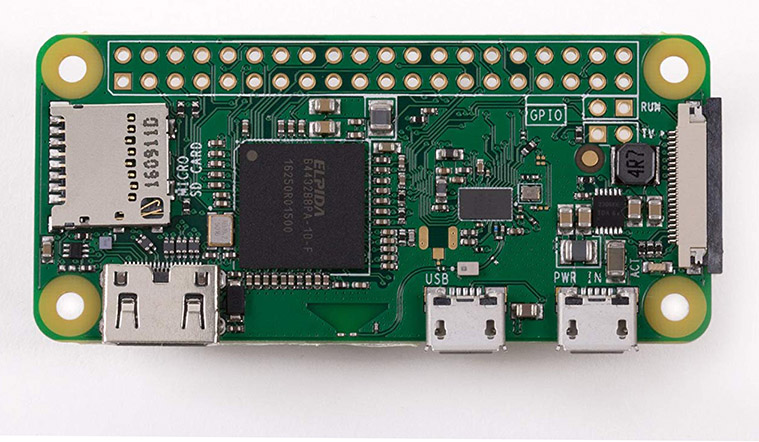
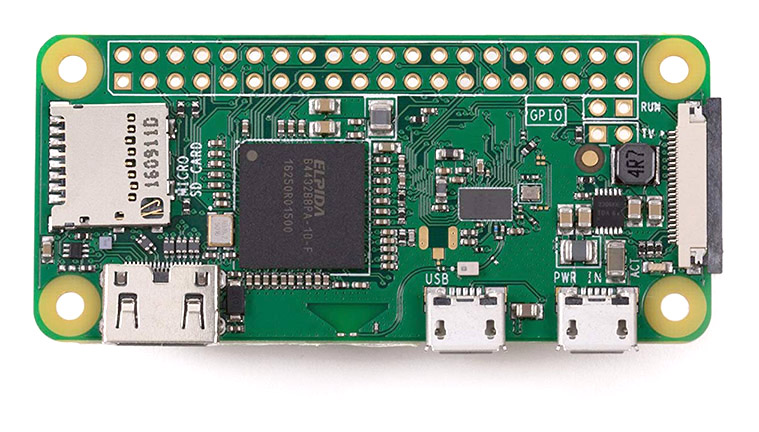
added more photos

diff --git a/notes/rpi_setup.md b/notes/rpi_setup.md
@@ -131,7 +131,7 @@ network={
 
 A USB [NIC](https://en.wikipedia.org/wiki/Network_interface_controller) that's confirmed compatible with Linux should auto-setup with [DHCP](https://en.wikipedia.org/wiki/Dynamic_Host_Configuration_Protocol) and be on the network. I did not have to do anything extra for this to succeed.
 
-`-------- PHOTO USB NIC ----------`
+![USB NIC](images/usbnic.jpg)
 
 `-------- DEVICE INFO TERMINAL DUMP OF MY NIC ---------`
 
@@ -172,31 +172,39 @@ Power is connected last.
 
 To break out the USB ports into something usable on the Pi Zero, use something like an [OTG cable](https://en.wikipedia.org/wiki/USB_On-The-Go#OTG_micro_cables), which is just the standard for *Micro USB Male-B* to *USB Female-A*. The host/client relationship does not matter to the cable. A regular USB 2.0 hub can be connected providing USB *Female-A* ports for peripherals (which almost all are *Male-A*). An externally powered hub is even better--or may even be required if your devices are high-powered (flash drives, tv tuners, wifi). A USB 3.0 hub has no performance benefit as all Pi USB Host Controllers are 2.0.
 
-`-------- PHOTO OTG CABLE & 2 MICRO PORTS SHOWING HUB VS POWER PORT ----------`
+![OTG Adapter Cable](images/otgcable.jpg)
 
 #### Option 2: Jumper a USB PCI Bracket
 
 *If you lack an OTG cable* but have spare parts from building computers, you can take a dual USB PCI bracket and jump the pins together using some solid wire or paper clips. Take the [0.1" female USB header](http://pinoutguide.com/Motherboard/usb_2_1_header_pinout.shtml) and connect each pair of the five rows pins together. This links both of the *Female-A* ports to each other. One port is for a *Micro Male-A* cable to let you connect to the Pi Zero, and the other for the *Male-A* end of a USB hub. I have done this myself and it works fine.
 
-`------------ PHOTO OF PCI BRACK JUMPER RIG -------------`
+![Bracket Jumpered](images/bracket_jumper.jpg)
 
 #### Option 3: Solder a Spliced Micro Cable
 
 Sacrifice a spare micro USB cable to cut open and splice its *Male-A* end into your USB hub. This needs to be done somewhat neatly or it may not work. You are breaking the shielding a normal cable would have.
 
-`------------- 4-QUAD PHOTO OF SPLICING A WIRE INTO A USB HUB ---------------`
+Not all USB cables are alike. In the top left panel you see the right cable only has power and ground.
+
+It might be easier than splicing cables, if you desolder the old cable or port, and solder the clipped cable directly on the hub like shown.
+
+The modern adapters are fairly cheap and this takes some work, but you're recycling old components that maybe have not been used for years and even get thrown out today. 
+
+![Building a micro USB Hub](images/hub_build.jpg)
 
 ### Video Output
 
+#### HDMI
+
 You will need a *male mini-HDMI* (Not micro) to *HDMI (either male or female)* adapter. A *female HDMI* adapter might be more convenient. It allows you to use a standard HDMI cable of a preferred length. Adding more interconnects in between the HDMI signal has a chance of not working. Do not daisy chain too many.
 
-`-------- PHOTO HDMI ADAPTER ----------`
+![Mini HDMI to Female HDMI Adapter](images/mini_hdmi_adapter.jpg)
 
-If you do not have this adapter, then there is also composite analog TV out on the Pi Zero. A two pin header can be soldered there to wire up a yellow RCA jack. I might cover that later. Video output is not necessary with the headless **ssh** setup mentioned earlier.
+#### Analog Composite
 
-`-------- PHOTO OF TV PIN ----------`
+If you do not have this adapter, then there is also composite analog TV out on the Pi Zero. A two pin header can be soldered there to wire up a yellow RCA jack. Video output is not necessary with the headless **ssh** setup mentioned earlier.
 
-`-------- Write-up on /boot dir TV OUT ENABLE ----------`
+There is a tutorial for this which can be found on [modmypi.com](https://www.modmypi.com/blog/how-to-add-an-rca-tv-connector-to-a-raspberry-pi-zero)
 
 The following can be added to the `boot.txt` file to enable monochrome composite NTSC video out.
 
@@ -215,7 +223,7 @@ An 800 - 2000 mA, 5.0 - 5.2V charger is the ideal choice for powering the setup.
 
 #### Peripheral Checklist
 
-You only need an SD card if doing this headless over pre-configured wireless!
+You only need the SD card if you are doing this headless over pre-configured wireless!
 
 - microSD card flashed and inserted
 - USB adapted
@@ -228,11 +236,11 @@ It's ready for power on!
 
 Upon first boot up it will *resize* the file system to occupy the rest of the SD card then reboot.
 
-Wait a couple of minutes after first power on. Run `arp -a` again on your workstation computer to see what new IP has shown up. That will probably be the Pi just joining your network with a DHCP lease.
+Wait a couple of minutes after first power on. Run `arp -a` again on your workstation computer to see what new IP has shown up. That will likely be the Pi just joining your network with its DHCP lease.
 
 ![ARP result before and after](images/arp.png)
 
-Here I left the window open to run arp again after the Pi booted.
+I left the window open to run arp again after the Pi booted.
 
 Or check your router's web UI config. Because I did both ethernet and Wifi to write this, my router shows `raspberrypi` host IPs for both LAN and Wifi in the client table.
 
@@ -246,13 +254,23 @@ With all of the peripherals connected, physically at the Pi login prompt you wil
 
 **Password:** `raspberry`
 
-Check and see if you have an IP address
+Check and see if you have an IP address. Here is an example with ethernet showing the network interface has an IP address.
 
 `ifconfig`
 
-`-------- SCREENSHOT: RPI IFCONFIG ----------`
+```
+$ ifconfig
+eth0: flags=4163<UP,BROADCAST,RUNNING,MULTICAST>  mtu 1500
+        inet 192.168.1.121  netmask 255.255.255.0  broadcast 192.168.1.255
+        inet6 fe80::92aa:2b5d:fd0b:7deb  prefixlen 64  scopeid 0x20<link>
+        ether b8:27:eb:23:9e:7b  txqueuelen 1000  (Ethernet)
+        RX packets 120666  bytes 71154276 (67.8 MiB)
+        RX errors 0  dropped 1  overruns 0  frame 0
+        TX packets 7729  bytes 879351 (858.7 KiB)
+        TX errors 0  dropped 0 overruns 0  carrier 0  collisions 0
+```
 
-If you do not see a `192.168.0.x` or a local IP assigned then worry about troubleshooting this a little later on and just skip the following connection steps. Network connectivity is going to be used for getting updates and installing additional software. Steps to do this offline manually are out of scope for now.
+If you do not see a `192.168.0.x` or a local IP assigned then just skip the following connection steps. Network connectivity is going to be used for getting updates and installing additional software. Steps to do this offline manually are out of scope for now.
 
 ### SSH Connection
 
@@ -282,17 +300,15 @@ Port 22 is left alone for a fresh default Pi
 
 Press `Alt+O` to *open* the connection
 
-`-------- SCREENSHOT: PUTTY CONNECTION ----------`
+![Connecting with Putty](images/putty.png)
 
 **Login as:** `pi`
 
 **Password:** `raspberry`
 
-## Customize the Environment
+## Basic Commandline Familiarity
 
-The guides found on google searches will say to traditionally use `sudo raspi-config` and then proceed to explain how to use each menu option. I prefer using a sequence that can be copy and pasted in one move without menus and interacte prompts. If we know what we want out of the computer, then let's tell it directly to go there.
-
-### Basic Commandline Familiarity
+If you're familiar with shells/terminals and Linux then skip this section.
 
 Be careful when pasting and running `sudo` commands from the internet. Also be careful about running foreign scripts.
 
@@ -312,13 +328,15 @@ Pasting text into the terminal from your workstation's clipboard depends on the 
 - Linux might be `Ctrl+Shift+V` to paste, `Ctrl+Shift+C` to copy.
 - Windows using PuTTY is a mouse `right-click` to paste, and selecting with the mouse automatically copies.
 
-New lines get interpreted as a command input, so when pasting scripts from this, the last line will not be sent through until you press enter for it. Spaces are separators for argument lists to modify the default actions of a program.
+New lines get interpreted as a command input. The last line will not be executed when pasted until you press enter. Spaces are separators for argument lists to modify the default actions of a program.
+
+## Customize the Linux Environment
+
+Other guides out there say to use `sudo raspi-config` and proceed to explain how to use each menu option. I prefer using a sequence that can be copy and pasted without menus and interactive prompts. If I know what I want out of the computer, then I want to be able to tell it directly.
 
 ### Locale Change
 
-The Pi starts default with the`en_GB.UTF-8` locale and `UK` keyboard. Here is how to change it for the US `en_US.UTF-8`.
-
-Paste this script and press enter.
+The Pi starts default with the`en_GB.UTF-8` locale and `UK` keyboard. Changing it for the US `en_US.UTF-8`.
 
 ```
 sudo sed -i '/^#/! s/^/# /g' /etc/locale.gen && \
@@ -333,9 +351,7 @@ sudo update-locale en_US.UTF-8
 
 ### Keyboard Layout Change
 
-US 104 or 105 key. Some of the symbols you input will be wrong (pipe `|` for instance) until you change the keyboard. `ssh` can send the keyboard layout for its connected terminal so you may not notice.
-
-Paste this script and press enter
+US 105 key. Some of the symbols you input will be wrong (pipe `|` for instance) until you change the keyboard. `ssh` can send the keyboard layout for its connected terminal so you may not notice.
 
 ```
 KYBD="/etc/default/keyboard"
@@ -347,8 +363,6 @@ sudo sed -i 's/XKBOPTIONS=.*/XKBOPTIONS=""/g' "$KYBD"
 
 ### Hostname Change
 
-Having a unique hostname will make owning multiple networked Pi's less confusing.
-
 Here is a script to randomize it to `zero-1234` something. The change is seen after relogging in.
 
 ```
@@ -358,7 +372,7 @@ sudo sed -i "s/$HOSTNAME/$NEWNAME/" /etc/hosts
 sudo hostname "$NEWNAME" && \
 ```
 
-Confirm the hostname changed with `hostnamectl`.
+Confirm the hostname changed with executing `hostnamectl`.
 
 ### Add Your User
 
@@ -366,7 +380,7 @@ Removing the `pi` user will add some more security and remove the ssh warnings. 
 
 Add your new user with `sudo` permissions. I will call my user on this system `mse`.
 
-If you hit enter through every prompt it keeps the fields empty. You will want a password to have ssh access with it.
+If you hit enter through every prompt the fields are safely left empty. You will want a password to have ssh access.
 
 ```
 NEWUSER="mse"
@@ -377,7 +391,6 @@ sudo usermod -aG sudo "$NEWUSER"
 The user `mse` we made can change or set a password with `sudo passwd mse`.
 
 **Login again:** Terminate the session with `exit`. Log back in as the new user to let you **delete** the `pi` user. This will also updates the hostname from earlier.
-
 
 ### Remove the pi User
 
@@ -398,151 +411,33 @@ sudo rm /etc/motd
 touch ~/.hushlogin
 ```
 
-## Run Updates
+### Run Updates
 
-The Pi will need to be on the network to reach out for updates.
+The Pi will need to be on the network to reach out for updates. If you did not obtain an IP earlier now is the time to troubleshoot.
 
 `sudo apt update -qq && sudo apt-get upgrade -y`
 
 Should that fail, and you're networked, it may be that `/etc/apt/sources` stupidly has the CDROM as the only repo source. I do not think this will happen with the Raspbian images. Remove the `-qq` switches (quiet) for more output to help troubleshoot.
 
-`------------------ End of general setup ------------------`
+# Backup The Image
 
-Scratch notes that need to be sorted into their own documents:
+At this point the Pi is customized and ready to become a project. Now is a good time to do a backup copy of the SD card for a start over point or starting another Pi project.
 
-# Install PWM Control
+I used Win32 Disk Imager on my workstation. It will work for both read and write to swap Pi disk images.
 
-## GPIO Setup
+[Win32 Disk Imager](https://sourceforge.net/projects/win32diskimager/)
 
-```
-sudo gpio_alt -p 13 -f 0
-sudo gpio_alt -p 18 -f 5
-
-Set pin 13 to alternative-function 0
-Set pin 18 to alternative-function 5
-```
-
-# PowerBlock
-
-ATTiny85 microcontroller as a power controller for the RPi.
-
-https://github.com/petrockblog/PowerBlock
-
-https://github.com/vpanarello/RpiPowerController
-
-Set the board as "ATtiny25/45/85", processor as ATtiny85
-Clock as 1MHz and programmer as "Arduino as ISP".
-
-## Install
-
-`wget -O - https://raw.githubusercontent.com/petrockblog/PowerBlock/master/install.sh | sudo bash`
-
-Additional packages installed totals **151 MB**
+Linux and Mac can `dd` the device to a file.
 
 ```
-  build-essential
-  cmake
-  cmake-data
-  doxygen
-  g++-4.9
-  git
-  git-man
-  libarchive13
-  libclang1-3.9
-  liberror-perl
-  libjsoncpp1
-  libllvm3.9
-  liblzo2-2
-  libstdc++-4.9-dev
-  libuv1
+sudo dd if=/dev/disk2 of=~/pi0w_fresh_setup.img
 ```
-
-**statuspin:** Raspberry BCM pin used for status signaling (default: 17) connects to S2 on PowerBlock
-**shutdownpin:** Raspberry BCM pin used for shutdown signaling (default: 18) connects to S1 on Powerblock
-
-PowerBlock driver logging `/var/log/powerblock.log`
-When the driver observes a shutdown signal from the PowerBlock, a shutdown Bash script is called.
-You can find and edit it at `/etc/powerblockswitchoff.sh`
-
-### Need to change the pinout to not stomp on the HW PWM
-sudo sed -i 's/"shutdownpin": 18/"shutdownpin": 27/g' /etc/powerblockconfig.cfg
-
-### Need to change the pinout to not stomp on the HW PWM
-sudo sed -i 's/"shutdownpin": 18/"shutdownpin": 27/g' /etc/powerblockconfig.cfg
-
-### dmesg
-
-```
-2018-10-12 20:38:30.711 INFO  [282] [main@70] Starting PowerBlock driver, version 1.5.0
-2018-10-12 20:38:30.731 INFO  [282] [PowerBlockConfiguration::initialize@57] Shutdown is ACTIVATED
-2018-10-12 20:38:30.732 INFO  [282] [PowerBlockConfiguration::initialize@77] Shutdown Pin is 27
-2018-10-12 20:38:30.732 INFO  [282] [PowerBlockConfiguration::initialize@78] Status Pin is 17
-2018-10-12 20:38:30.745 INFO  [282] [PowerSwitch::setPowerSignal@75] Setting RPi status signal to HIGH
-```
-
-## ATTiny85 Code
-
-`https://github.com/vpanarello/RpiPowerController/blob/master/sketch_nov16a.ino`
-
-
-# Misc
-
-## HDMI Audio Output
-
-`amixer cset numid=3 2`
-
-0 = auto
-1 = analog
-2 = hdmi
-
-
-Optional additional option (incase it is not working)
-`/boot/config.txt`
-`hdmi_drive=2`
-
-
-
-```
-hardware interfaces
-#dtparam=i2c_arm=on
-#dtparam=i2s=on
-#dtparam=spi=on
-```
-
-https://www.raspberrypi.org/documentation/configuration/device-tree.md
-
-Device Trees are usually written in a textual form known as Device Tree Source (DTS) and stored in files with a .dts suffix. DTS syntax is C-like, with braces for grouping and semicolons at the end of each line. Note that DTS requires semicolons after closing braces: think of C structs rather than functions.
-
-
 
 # Appendices
 
 ### SD Card Space
 
 A 4GB Class 10 or UHS-1 card is suitable.
-
-After setup run 
-`df -m /`
-
-results in `1048 MB` or `1.1 GB` of used space for this setup.
-
-vim adds another `30.2 MB`
-
-We could install tlp, but there are a ton of dependencies (56.4 MB).
-      
-`sudo apt-get install tlp`
-
-Nope, that broke my wifi management. Had to start the system over. But it let me practice a cheat sheet and find some bugs in the procedure.
-
-### Battery
-
-Model: LIS1442
-Type: Lion
-Size: 16x44 mm
-Voltage: 3.7V
-Capacity: 490mA
-Space Inside: 22x57 mm with modding
-
 
 ### Memory Card Adapter
 
@@ -569,11 +464,4 @@ What do you really need?
 - Double row of 0.1" header pins maybe (If not a Zero WH model)
 - SD card reader if you don't have any computers with one (it's 2018--how could you!)
 
-You can 3d print a case or get creative.
-
-
-### More Software
-
-`tmux` is only **561 kB**.
-
-running the powercontrol script installs git and stuff. somewhere is a clip file to show the additional space.
+You can 3d print a case or get creative with Lego or something.
